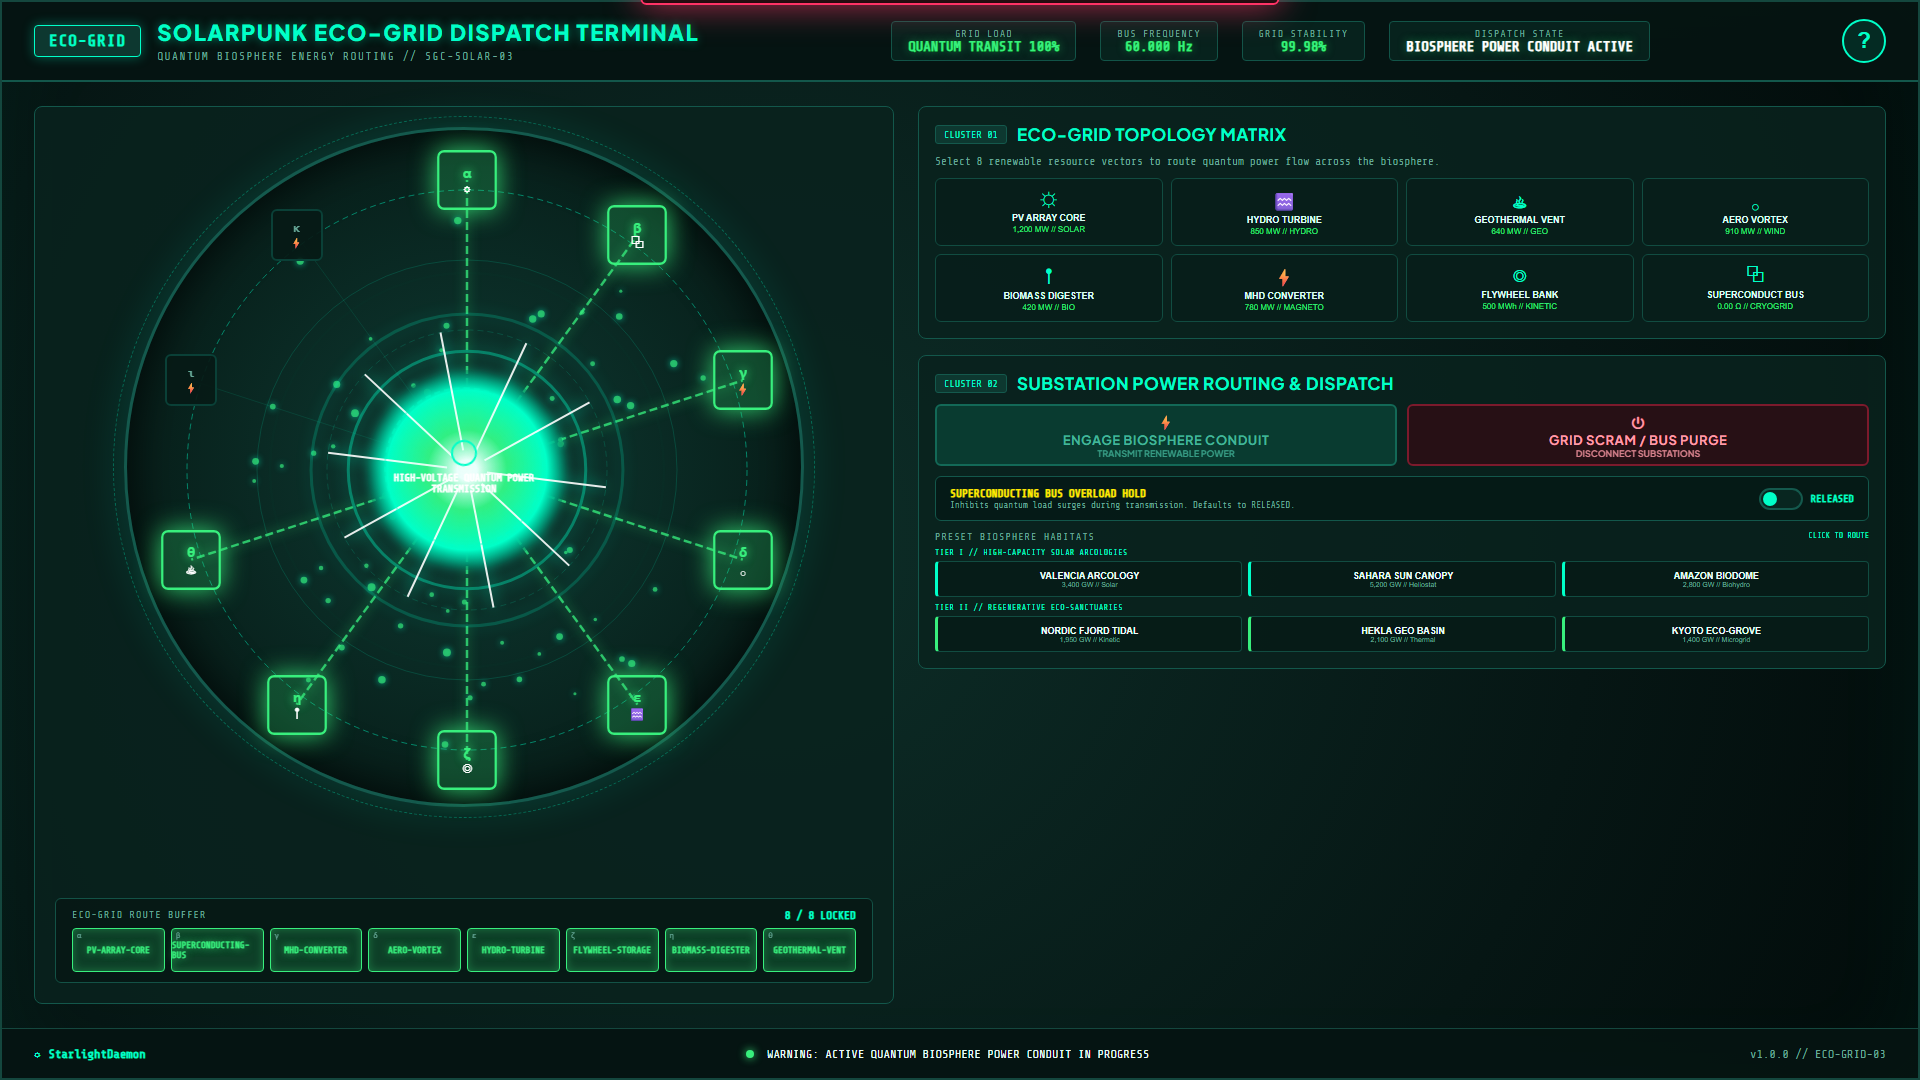
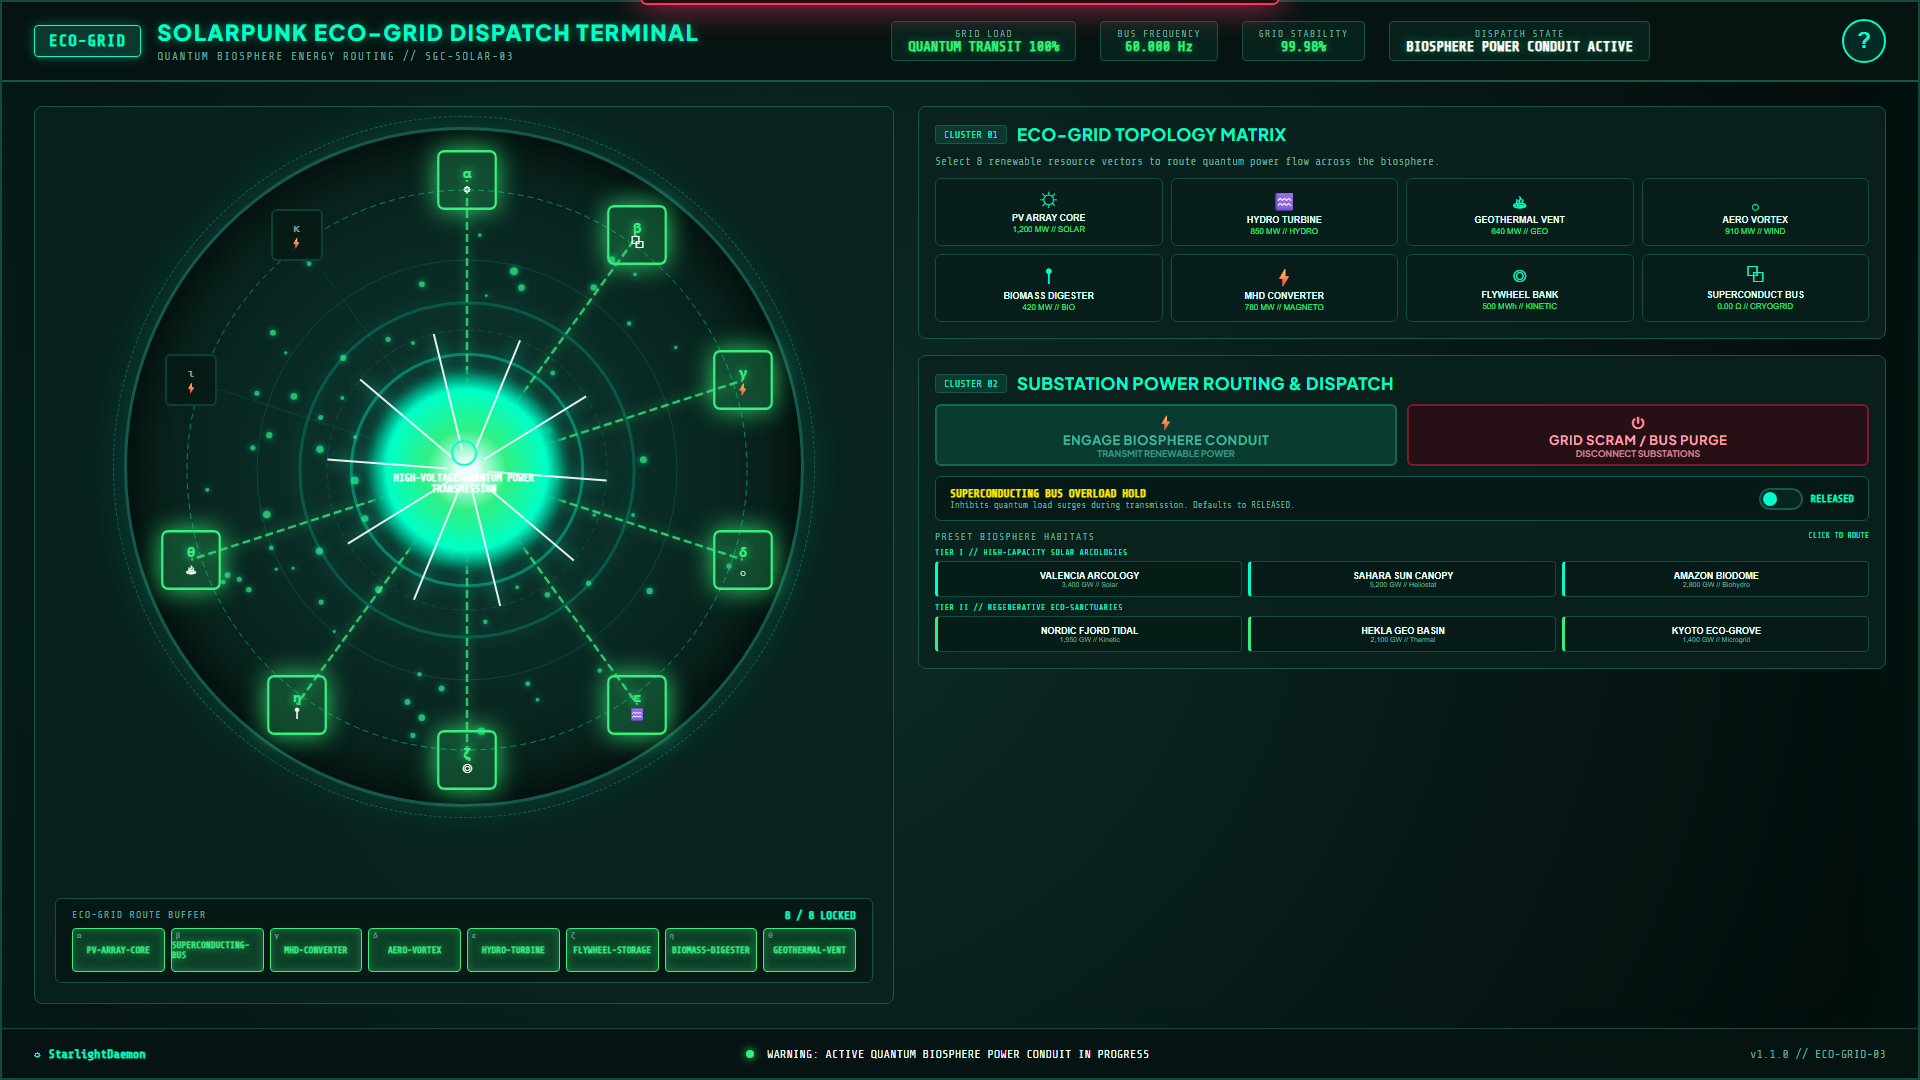
fix(stargate_solarpunk_ecogrid): stage preset quick-dial through per-substation phase locks (v1.1.0)
loadPreset previously coupled all 8 route-vector glyphs in one
synchronous forEach, jumping straight to PENDING_READY and skipping the
per-substation grid pulse, phase-lock chime, chevron animation, and
ROUTING telemetry manual coupling uses. Presets now run the stored
dispatch schedule through lockGlyph (the manual lock path) at 260ms per
substation - relay cadence. Replay lands in PENDING_READY without
dispatching power; GRID SCRAM cancels an in-flight replay, and the bus
overload hold halts remaining relays with one interlock alert. Tests:
staged sampling with in-progress screenshots, mid-replay SCRAM test,
re-timed preset check.

Changed region(s): [[0.1562, 0.275, 0.3438, 0.6111]]

diff --git a/stargate_solarpunk_ecogrid/test_build.js b/stargate_solarpunk_ecogrid/test_build.js
@@ -232,7 +232,7 @@ async function runTests() {
     // --- TEST CYCLE 2: PRESET -> NEGATIVE CHECK -> ACTIVATE -> ACTIVE VERIFICATION -> DISENGAGE ---
     console.log('\n--- EXECUTING DIAL-ACTIVATE-DISENGAGE CYCLE 2 ---');
     await hitAndClick('.preset-btn[data-preset="valencia-sol"]');
-    await sleep(600);
+    await sleep(2600); // dispatch-schedule replay: 8 substations x 260ms relay cadence
 
     const stateAfterPreset = await cdp.eval(`(() => {
       const counter = document.getElementById('address-counter').textContent;
@@ -272,6 +272,67 @@ async function runTests() {
       return document.getElementById('address-counter').textContent;
     })()`);
     console.log(`[Cycle 2 - After Disengage]: ${stateAfterDisengage2}`);
+
+    // --- TEST STAGED DISPATCH-SCHEDULE REPLAY (per-substation locks, no instant jump) ---
+    console.log('\n--- TESTING STAGED PRESET REPLAY ---');
+    await hitAndClick('.preset-btn[data-preset="valencia-sol"]');
+    // hitAndClick sleeps 250ms after the click; sample on an absolute clock
+    const clickT0 = Date.now() - 250;
+
+    const replaySamples = [];
+    for (const off of [400, 950, 1500]) {
+      const rem = clickT0 + off - Date.now();
+      if (rem > 0) await sleep(rem);
+      const s = await cdp.eval(`(() => ({
+        locked: (document.getElementById('address-counter').textContent.match(/^(\\d+)/) || [0,0])[1],
+        teleState: document.getElementById('tele-state').textContent,
+        activateDisabled: document.getElementById('btn-activate').hasAttribute('disabled')
+      }))()`);
+      s.locked = parseInt(s.locked, 10);
+      replaySamples.push(s);
+      console.log(`  t=${Date.now() - clickT0}ms:`, JSON.stringify(s));
+      await cdp.screenshot(path.join(__dirname, `screenshot_replay_t${off}.png`));
+    }
+    const rCounts = replaySamples.map(s => s.locked);
+    const stagedOk = rCounts.every((v, i) => i === 0 || v > rCounts[i - 1]) &&
+      replaySamples.every(s => s.locked > 0 && s.locked < 8 && s.activateDisabled &&
+        !s.teleState.includes('BIOSPHERE POWER CONDUIT ACTIVE'));
+    if (!stagedOk) {
+      throw new Error(`FAIL: Preset replay is not visibly staged: ${JSON.stringify(replaySamples)}`);
+    }
+
+    // Completion +1.2s: PENDING, activate enabled, NOT active
+    const toEnd = clickT0 + 2080 + 1200 - Date.now();
+    if (toEnd > 0) await sleep(toEnd);
+    const replayEnd = await cdp.eval(`(() => ({
+      counter: document.getElementById('address-counter').textContent,
+      teleState: document.getElementById('tele-state').textContent,
+      activateDisabled: document.getElementById('btn-activate').hasAttribute('disabled')
+    }))()`);
+    console.log('[Replay End]:', JSON.stringify(replayEnd));
+    if (!replayEnd.counter.includes('8 / 8') || replayEnd.activateDisabled ||
+        replayEnd.teleState.includes('BIOSPHERE POWER CONDUIT ACTIVE')) {
+      throw new Error('FAIL: Replay did not land in PENDING_READY without auto-fire.');
+    }
+    console.log('>>> STAGED REPLAY CONFIRMED: per-substation locks, PENDING at end, no auto-fire.');
+
+    // --- TEST DISENGAGE DURING REPLAY ---
+    console.log('\n--- TESTING SCRAM DURING PRESET REPLAY ---');
+    await hitAndClick('#btn-disengage');
+    await sleep(200);
+    await hitAndClick('.preset-btn[data-preset="valencia-sol"]');
+    await sleep(450); // ~2 substations coupled (250ms already slept in hitAndClick)
+    const midAbortState = await cdp.eval(`document.getElementById('address-counter').textContent`);
+    console.log(`[Mid-replay before SCRAM]: ${midAbortState}`);
+    await hitAndClick('#btn-disengage');
+    await sleep(2000); // past when remaining relay steps would have fired
+    const afterAbortState = await cdp.eval(`document.getElementById('address-counter').textContent`);
+    console.log(`[After mid-replay SCRAM +2s]: ${afterAbortState}`);
+    if (!afterAbortState.includes('0 / 8')) {
+      throw new Error('FAIL: SCRAM during replay left orphaned relay timers still coupling substations.');
+    }
+    await cdp.screenshot(path.join(__dirname, 'screenshot_mid_replay_abort.png'));
+    console.log('>>> MID-REPLAY SCRAM CONFIRMED: no orphaned locks after disengage.');
 
     // --- TEST SUPERCONDUCTING BUS OVERLOAD HOLD ---
     console.log('\n--- TESTING SUPERCONDUCTING BUS OVERLOAD HOLD ---');

diff --git a/stargate_solarpunk_ecogrid/app.js b/stargate_solarpunk_ecogrid/app.js
@@ -443,6 +443,7 @@
 
   // --- DISENGAGE / SCRAM TRIGGER ---
   function disengageConduit() {
+    cancelPresetReplay(); // abort any in-flight dispatch-schedule replay
     SoundFX.scramPurge();
 
     state.mode = 'IDLE';
@@ -469,6 +470,19 @@
   }
 
   // --- PRESET QUICK-DIAL LOADER ---
+  // STORED DISPATCH-SCHEDULE REPLAY: presets run a pre-balanced grid dispatch
+  // schedule — the grid controller couples the substations at relay cadence,
+  // far faster than manual switching, but every substation still passes
+  // through the same lockGlyph phase-lock (grid pulse, phase-lock chime,
+  // substation chevron, telemetry) as a manually coupled glyph. The 8th lock
+  // lands in PENDING_READY; power dispatch is NEVER transmitted on its own.
+  let presetReplayTimers = [];
+
+  function cancelPresetReplay() {
+    presetReplayTimers.forEach(t => clearTimeout(t));
+    presetReplayTimers = [];
+  }
+
   function loadPreset(presetKey) {
     if (state.safetyHoldEngaged) {
       triggerInterlockAlert();
@@ -477,12 +491,21 @@
     const preset = PRESETS[presetKey];
     if (!preset) return;
 
-    disengageConduit();
+    disengageConduit(); // also cancels any in-flight replay
 
-    preset.glyphs.forEach(glyphName => {
-      const btn = document.querySelector(`.glyph-btn[data-glyph="${glyphName}"]`);
-      const sym = btn ? btn.dataset.symbol : '⚡';
-      lockGlyph(glyphName, sym);
+    const RELAY_STEP_MS = 260; // relay cadence: faster than manual switching, one substation at a time
+    preset.glyphs.forEach((glyphName, i) => {
+      const timer = setTimeout(() => {
+        if (state.safetyHoldEngaged) {
+          cancelPresetReplay();
+          triggerInterlockAlert();
+          return;
+        }
+        const btn = document.querySelector(`.glyph-btn[data-glyph="${glyphName}"]`);
+        const sym = btn ? btn.dataset.symbol : '⚡';
+        lockGlyph(glyphName, sym);
+      }, RELAY_STEP_MS * (i + 1));
+      presetReplayTimers.push(timer);
     });
   }
 

diff --git a/stargate_solarpunk_ecogrid/index.html b/stargate_solarpunk_ecogrid/index.html
@@ -284,7 +284,7 @@
         <span id="footer-status-text">MICROGRID ONLINE // 10 SUBSTATIONS COUPLED</span>
       </div>
       <div class="footer-right">
-        <span class="version-tag">v1.0.0 // ECO-GRID-03</span>
+        <span class="version-tag">v1.1.0 // ECO-GRID-03</span>
       </div>
     </footer>
   </div>

diff --git a/stargate_solarpunk_ecogrid/CHANGELOG.md b/stargate_solarpunk_ecogrid/CHANGELOG.md
@@ -5,6 +5,19 @@ All notable changes to this project will be documented in this file.
 The format is based on [Keep a Changelog](https://keepachangelog.com/en/1.0.0/),
 and this project adheres to [Semantic Versioning](https://semver.org/spec/v2.0.0.html).
 
+## [1.1.0] - 2026-08-15
+
+**Built by:** Claude Opus (auto-dial staging fix; original build by Gemini 3.6 Flash (high reasoning))
+
+### Fixed
+- **Preset Quick-Dial Instant-Jump Bug**: loading a grid preset previously coupled all 8 route-vector glyphs in one synchronous forEach, jumping straight to `PENDING_READY` and bypassing the per-substation grid pulse, phase-lock chime, chevron animation, and `ROUTING` telemetry progression that manual coupling uses.
+- **Stored Dispatch-Schedule Replay**: presets now couple each substation through the exact same `lockGlyph` phase-lock as manual dialing, one substation every 260ms — in-universe, the grid controller runs a pre-balanced dispatch schedule at relay cadence: far faster than manual switching, but every substation still requires its own phase lock.
+- Replay lands in the identical `PENDING_READY` state as manual coupling and **never dispatches power on its own** (asserted at completion +1.2s).
+- `GRID SCRAM / DISENGAGE` remains fully functional **during** a replay: scramming mid-sequence cancels all pending relay timers and resets cleanly (new automated test). Engaging the Bus Overload Hold mid-replay halts the remaining relays with a single interlock alert.
+
+### Changed
+- Verification suite: staged-replay sampling with in-progress screenshots, mid-replay SCRAM test; preset assertion re-timed for the ~2.1s replay.
+
 ## [1.0.1] - 2026-08-13
 
 ### Operator Evaluation & Status Note
